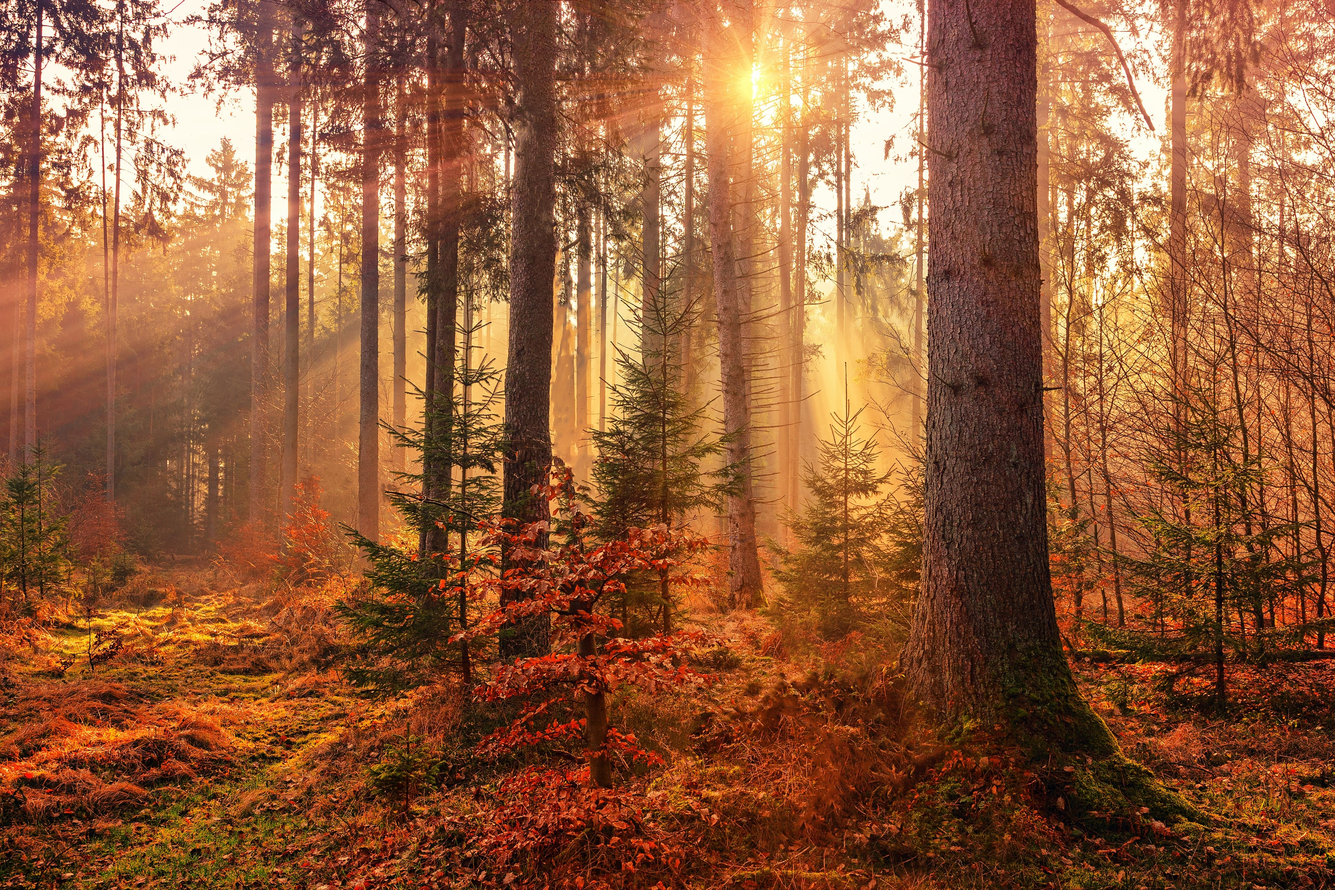
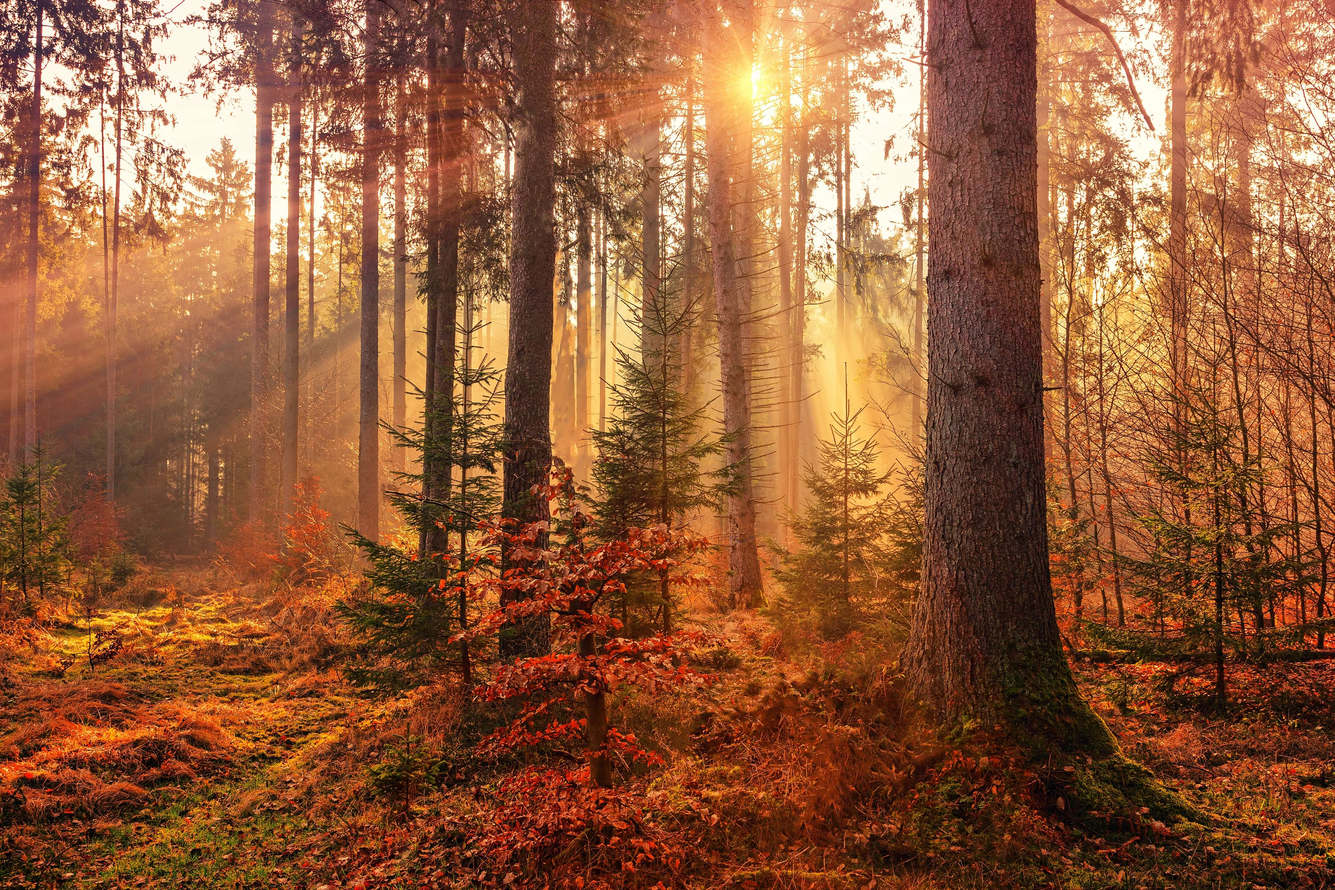
Random bgImage

diff --git a/src/css/main.css b/src/css/main.css
@@ -4,39 +4,31 @@ main {
   height: 100vh;
 }
 
-@keyframes backgroundAnimation {
-  0% {
-    background-image: linear-gradient(rgba(0, 0, 0, 0.3), rgba(0, 0, 0, 0.3)),
-      url('../../images/com/bg1.jpg');
-  }
-  33% {
-    background-image: linear-gradient(rgba(0, 0, 0, 0.3), rgba(0, 0, 0, 0.3)),
-      url('../../images/com/bg2.jpg');
-  }
-  66% {
-    background-image: linear-gradient(rgba(0, 0, 0, 0.3), rgba(0, 0, 0, 0.3)),
-      url('../../images/com/bg3.jpg');
-  }
-  100% {
-    background-image: linear-gradient(rgba(0, 0, 0, 0.3), rgba(0, 0, 0, 0.3)),
-      url('../../images/com/bg1.jpg');
-  }
-}
-
 @keyframes fadeIn {
+  from {
+    opacity: 0;
+  }
+  to {
+    opacity: 1;
+  }
 }
 
 body {
-  background-image: linear-gradient(rgba(0, 0, 0, 0.3), rgba(0, 0, 0, 0.3)),
-    url('../../images/com/bg1.jpg');
+  color: white;
+}
 
+.bgImage {
+  position: absolute;
+  top: 0;
+  left: 0;
+  width: 100%;
+  height: 100%;
+  z-index: -1;
   background-size: cover;
   background-position: center;
   background-repeat: no-repeat;
   background-attachment: fixed;
-  color: white;
-  animation: fadeIn 6s ease-in-out infinite;
-  animation: backgroundAnimation 30s ease-in-out infinite;
+  animation: fadeIn 1s linear;
 }
 
 .wrapper {

diff --git a/src/js/bg.js b/src/js/bg.js
@@ -1,0 +1,25 @@
+const body = document.querySelector('body');
+
+const IMG_NUMBER = 3;
+
+const genRandom = () => {
+  const number = Math.floor(Math.random() * IMG_NUMBER);
+  return number;
+};
+
+const paintImage = (imgNumber) => {
+  body.style.backgroundImage = `linear-gradient(rgba(0, 0, 0, 0.3), rgba(0, 0, 0, 0.3)),
+  url('../../images/com/bg${imgNumber + 1}.jpg')`;
+  body.classList.add('bgImage');
+};
+
+const bgAnimation = () => {
+  const randomNumber = genRandom();
+  paintImage(randomNumber);
+};
+
+function init() {
+  setInterval(bgAnimation, 6000);
+}
+
+init();

diff --git a/index.html b/index.html
@@ -47,6 +47,7 @@
       </div>
     </main>
     <footer></footer>
+    <script src="src/js/bg.js"></script>
     <script src="src/js/todo.js"></script>
     <script src="src/js/user.js"></script>
     <script src="src/js/clock.js"></script>

diff --git a/src/css/partials/user.css b/src/css/partials/user.css
@@ -25,11 +25,3 @@
   font-size: 20px;
   cursor: pointer;
 }
-
-/* #jsUserForm input {
-  padding: 10px 13px;
-  border: none;
-  outline: none;
-  border-radius: 20px;
-  text-align: center;
-} */
